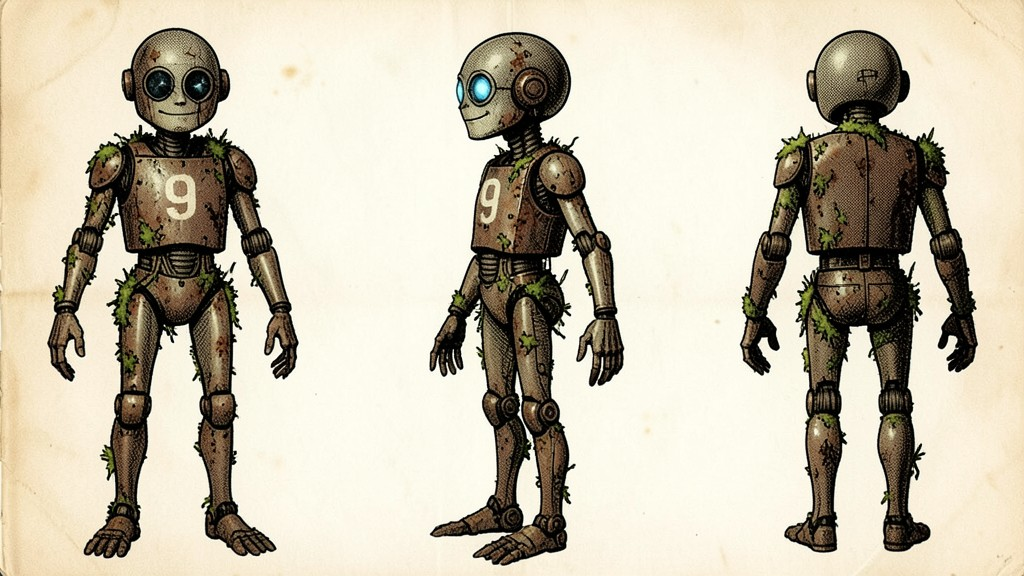
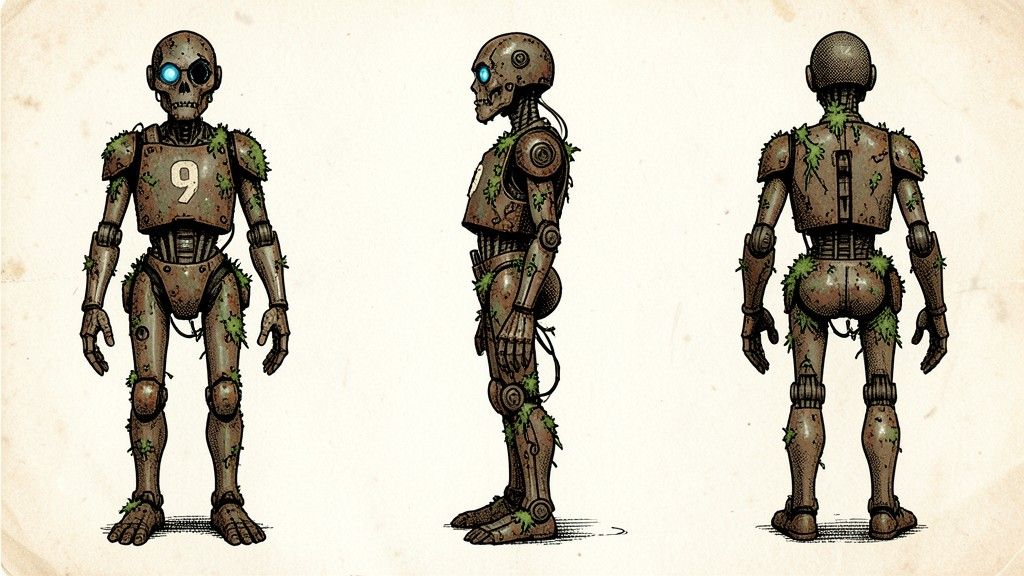
《두 번째 새벽》 아홉을 무서운 해골 얼굴로 되돌림 (겉은 무섭고 속은 다정한 반전)
Claude-Session: https://claude.ai/code/session_01DqPpRGzNAe9mfURoG7dgTE

diff --git a/연재/두번째새벽/기획.md b/연재/두번째새벽/기획.md
@@ -28,7 +28,8 @@
 - **세린** (21, 인간, 여주인공): 정화교 견습 사제이자 치유사. 발데르 경이 전쟁고아였던 그녀를 거둬 키운 양녀.
   아름답고 온화하지만 신념이 단단하다. 다친 적도 치료하는 사람이라 믿음·아버지·진실 사이에서 흔들린다. 이야기의 마음.
 - **카룬** (하누족 침팬지 전사): 족장의 아들. 싸움과 공부 모두 뛰어남. 인간을 불신하지만 공정하다.
-- **아홉** (낡은 정비 로봇): 다정하지만 복원 규칙을 어길 수 없다. 레아와 카룬을 잇는 다리.
+- **아홉** (낡은 정비 로봇): 해골 같은 얼굴에 외눈이 빛나는 무서운 겉모습. 처음엔 레아도 시청자도 믿지 못하지만 속은 다정하다(반전).
+  그러나 복원 규칙을 어길 수 없어 끝까지 긴장을 준다. 레아와 카룬을 잇는 다리.
 - **발데르 경** (40대, 정화교 기사단장): 로봇에게 가족을 잃었다. 무섭지만 이해되는 적.
 - **어머니** (AI): 목소리만.
 
